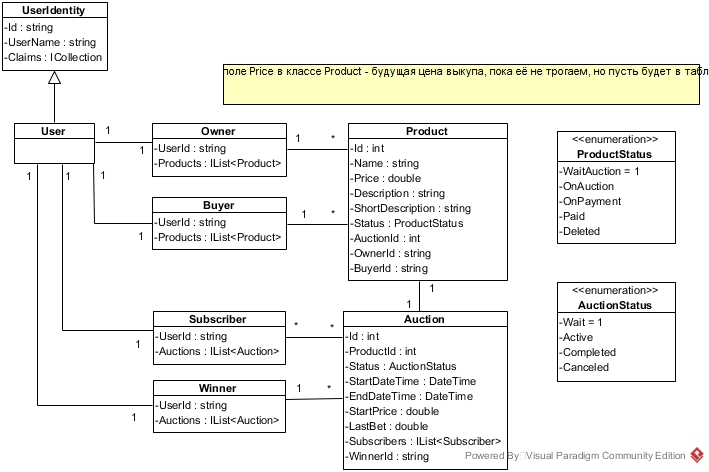
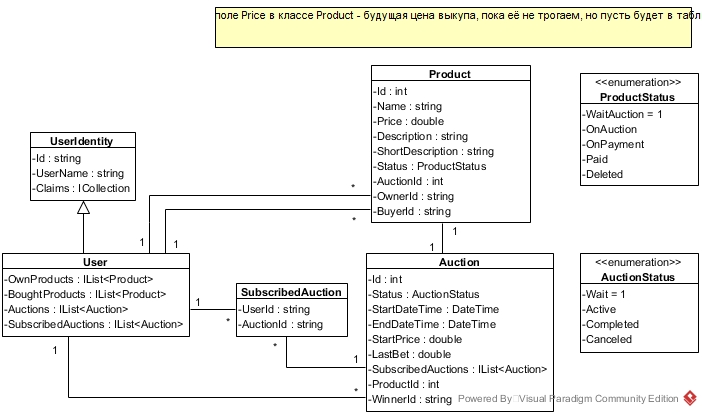
Избавился от Subscriber. Для промежуточной таблицы сделал сущность SubscribedAuction

diff --git a/Auctionator/Auctionator/Data/Migrations/20181127214444_auction-0.3.cs b/Auctionator/Auctionator/Data/Migrations/20181127214444_auction-0.3.cs
@@ -1,0 +1,107 @@
+using Microsoft.EntityFrameworkCore.Migrations;
+
+namespace Auctionator.Data.Migrations
+{
+    public partial class auction03 : Migration
+    {
+        protected override void Up(MigrationBuilder migrationBuilder)
+        {
+            migrationBuilder.DropForeignKey(
+                name: "FK_Auctions_Subscribers_SubscriberUserId",
+                table: "Auctions");
+
+            migrationBuilder.DropTable(
+                name: "Subscribers");
+
+            migrationBuilder.DropIndex(
+                name: "IX_Auctions_SubscriberUserId",
+                table: "Auctions");
+
+            migrationBuilder.DropColumn(
+                name: "SubscriberUserId",
+                table: "Auctions");
+
+            migrationBuilder.CreateTable(
+                name: "SubscribedAuctions",
+                columns: table => new
+                {
+                    UserId = table.Column<string>(nullable: false),
+                    AuctionId = table.Column<int>(nullable: false)
+                },
+                constraints: table =>
+                {
+                    table.PrimaryKey("PK_SubscribedAuctions", x => new { x.UserId, x.AuctionId });
+                    table.ForeignKey(
+                        name: "FK_SubscribedAuctions_Auctions_AuctionId",
+                        column: x => x.AuctionId,
+                        principalTable: "Auctions",
+                        principalColumn: "Id",
+                        onDelete: ReferentialAction.Cascade);
+                    table.ForeignKey(
+                        name: "FK_SubscribedAuctions_AspNetUsers_UserId",
+                        column: x => x.UserId,
+                        principalTable: "AspNetUsers",
+                        principalColumn: "Id",
+                        onDelete: ReferentialAction.Cascade);
+                });
+
+            migrationBuilder.CreateIndex(
+                name: "IX_SubscribedAuctions_AuctionId",
+                table: "SubscribedAuctions",
+                column: "AuctionId");
+        }
+
+        protected override void Down(MigrationBuilder migrationBuilder)
+        {
+            migrationBuilder.DropTable(
+                name: "SubscribedAuctions");
+
+            migrationBuilder.AddColumn<string>(
+                name: "SubscriberUserId",
+                table: "Auctions",
+                nullable: true);
+
+            migrationBuilder.CreateTable(
+                name: "Subscribers",
+                columns: table => new
+                {
+                    UserId = table.Column<string>(nullable: false),
+                    AuctionId = table.Column<int>(nullable: true)
+                },
+                constraints: table =>
+                {
+                    table.PrimaryKey("PK_Subscribers", x => x.UserId);
+                    table.ForeignKey(
+                        name: "FK_Subscribers_Auctions_AuctionId",
+                        column: x => x.AuctionId,
+                        principalTable: "Auctions",
+                        principalColumn: "Id",
+                        onDelete: ReferentialAction.Restrict);
+                    table.ForeignKey(
+                        name: "FK_Subscribers_AspNetUsers_UserId",
+                        column: x => x.UserId,
+                        principalTable: "AspNetUsers",
+                        principalColumn: "Id",
+                        onDelete: ReferentialAction.Cascade);
+                });
+
+            migrationBuilder.CreateIndex(
+                name: "IX_Auctions_SubscriberUserId",
+                table: "Auctions",
+                column: "SubscriberUserId");
+
+            migrationBuilder.CreateIndex(
+                name: "IX_Subscribers_AuctionId",
+                table: "Subscribers",
+                column: "AuctionId");
+
+            migrationBuilder.AddForeignKey(
+                name: "FK_Auctions_Subscribers_SubscriberUserId",
+                table: "Auctions",
+                column: "SubscriberUserId",
+                principalTable: "Subscribers",
+                principalColumn: "UserId",
+                onDelete: ReferentialAction.Restrict);
+        }
+    }
+}

diff --git a/Auctionator/Auctionator/Models/User.cs b/Auctionator/Auctionator/Models/User.cs
@@ -11,10 +11,21 @@ namespace Auctionator.Models
     /// </summary>
     public class User : IdentityUser 
     {
-        public Subscriber Subscriber { get; set; }
-
+        /// <summary>
+        /// Товары пользователя, выставленные на продажу
+        /// </summary>
         public IList<Product> OwnProducts { get; set; }
+        /// <summary>
+        /// Товары, купленные пользователем
+        /// </summary>
         public IList<Product> BoughtProducts { get; set; }
+        /// <summary>
+        /// Аукционы, выигранные пользователем
+        /// </summary>
         public IList<Auction> WonAuctions { get; set; }
+        /// <summary>
+        /// Аукционы, на которые пользователь подписан
+        /// </summary>
+        public IList<SubscribedAuction> SubscribedAuctions { get; set; }
     }
 }

diff --git a/Auctionator/Auctionator/Data/ApplicationDbContext.cs b/Auctionator/Auctionator/Data/ApplicationDbContext.cs
@@ -12,18 +12,18 @@ namespace Auctionator.Data
         {
 
         }
-        public DbSet<Subscriber> Subscribers { get; set; }
         public DbSet<Product> Products { get; set; }
         public DbSet<Auction> Auctions { get; set; }
+        public DbSet<SubscribedAuction> SubscribedAuctions { get; set; }
 
         protected override void OnModelCreating(ModelBuilder modelBuilder)
         {
             base.OnModelCreating(modelBuilder);
 
             modelBuilder.ApplyConfiguration(new UserMap());
-            modelBuilder.ApplyConfiguration(new SubscriberMap());
             modelBuilder.ApplyConfiguration(new ProductMap());
             modelBuilder.ApplyConfiguration(new AuctionMap());
+            modelBuilder.ApplyConfiguration(new SubscribedAuctionMap());
         }
     }
 }

diff --git a/Auctionator/Auctionator/Data/Mappings/SubscribedAuctionMap.cs b/Auctionator/Auctionator/Data/Mappings/SubscribedAuctionMap.cs
@@ -1,0 +1,20 @@
+using System;
+using System.Collections.Generic;
+using System.Linq;
+using System.Threading.Tasks;
+using Microsoft.EntityFrameworkCore;
+using Microsoft.EntityFrameworkCore.Metadata.Builders;
+using Auctionator.Models;
+
+namespace Auctionator.Data.Mappings
+{
+    public class SubscribedAuctionMap : IEntityTypeConfiguration<SubscribedAuction>
+    {
+        public void Configure(EntityTypeBuilder<SubscribedAuction> builder)
+        {
+            builder.HasKey(x => new {x.UserId, x.AuctionId});
+            builder.HasOne(x => x.User).WithMany(x => x.SubscribedAuctions).HasForeignKey(x => x.UserId);
+            builder.HasOne(x => x.Auction).WithMany(x => x.SubscribedAuctions).HasForeignKey(x => x.AuctionId);
+        }
+    }
+}

diff --git a/Auctionator/Auctionator/Data/Migrations/20181127214444_auction-0.3.Designer.cs b/Auctionator/Auctionator/Data/Migrations/20181127214444_auction-0.3.Designer.cs
@@ -4,14 +4,16 @@ using Auctionator.Data;
 using Microsoft.EntityFrameworkCore;
 using Microsoft.EntityFrameworkCore.Infrastructure;
 using Microsoft.EntityFrameworkCore.Metadata;
+using Microsoft.EntityFrameworkCore.Migrations;
 using Microsoft.EntityFrameworkCore.Storage.ValueConversion;
 
 namespace Auctionator.Data.Migrations
 {
     [DbContext(typeof(ApplicationDbContext))]
-    partial class ApplicationDbContextModelSnapshot : ModelSnapshot
+    [Migration("20181127214444_auction-0.3")]
+    partial class auction03
     {
-        protected override void BuildModel(ModelBuilder modelBuilder)
+        protected override void BuildTargetModel(ModelBuilder modelBuilder)
         {
 #pragma warning disable 612, 618
             modelBuilder

diff --git a/Auctionator/Auctionator/Data/Mappings/UserMap.cs b/Auctionator/Auctionator/Data/Mappings/UserMap.cs
@@ -13,7 +13,6 @@ namespace Auctionator.Data.Mappings
         public void Configure(EntityTypeBuilder<User> builder)
         {
             builder.HasKey(x => x.Id);
-            builder.HasOne(x => x.Subscriber).WithOne(x => x.User).HasForeignKey<Subscriber>(x => x.UserId);
             builder.HasMany<Product>(x => x.BoughtProducts).WithOne(x => x.Buyer).HasForeignKey(x => x.BuyerId);
             builder.HasMany<Product>(x => x.OwnProducts).WithOne(x => x.Owner).HasForeignKey(x => x.OwnerId);
             builder.HasMany<Auction>(x => x.WonAuctions).WithOne(x => x.Winner).HasForeignKey(x => x.WinnerId);

diff --git a/Auctionator/Auctionator/Models/Auction.cs b/Auctionator/Auctionator/Models/Auction.cs
@@ -16,7 +16,7 @@ namespace Auctionator.Models
         public double LastBet { get; set; } // Последняя ставка (цена) на данный момент
         public int ProductId { get; set; }
         public Product Product { get; set; }
-        public IList<Subscriber> Subscribers { get; set; }
+        public IList<SubscribedAuction> SubscribedAuctions { get; set; }
         public string WinnerId { get; set; } // Победитель на данный момент
         public User Winner { get; set; }
     }

diff --git a/Auctionator/Auctionator/Data/Mappings/AuctionMap.cs b/Auctionator/Auctionator/Data/Mappings/AuctionMap.cs
@@ -19,7 +19,6 @@ namespace Auctionator.Data.Mappings
             builder.Property(x => x.StartPrice).IsRequired();
 
             builder.HasOne(x => x.Product).WithOne(x => x.Auction).HasForeignKey<Product>(x => x.AuctionId);
-            builder.HasMany(x => x.Subscribers);
             builder.HasOne(x => x.Winner).WithMany(x => x.WonAuctions).HasForeignKey(x => x.WinnerId);
         }
     }

diff --git a/Auctionator/Auctionator/Data/Mappings/ProductMap.cs b/Auctionator/Auctionator/Data/Mappings/ProductMap.cs
@@ -18,8 +18,6 @@ namespace Auctionator.Data.Mappings
 
             builder.HasOne(x => x.Owner).WithMany(x => x.OwnProducts).HasForeignKey(x => x.OwnerId);
             builder.HasOne(x => x.Buyer).WithMany(x => x.BoughtProducts).HasForeignKey(x => x.BuyerId);
-            builder.HasOne(x => x.Auction).WithOne(x => x.Product).HasForeignKey<Auction>(x => x.ProductId);
-
         }
     }
 }

diff --git a/Auctionator/Auctionator/Models/SubscribedAuction.cs b/Auctionator/Auctionator/Models/SubscribedAuction.cs
@@ -5,10 +5,11 @@ using System.Threading.Tasks;
 
 namespace Auctionator.Models
 {
-    public class Subscriber 
+    public class SubscribedAuction 
     {
         public string UserId { get; set; }
         public User User { get; set; }
-        public IList<Auction> Auctions { get; set; }
+        public int AuctionId { get; set; }
+        public Auction Auction { get; set; }
     }
 }
